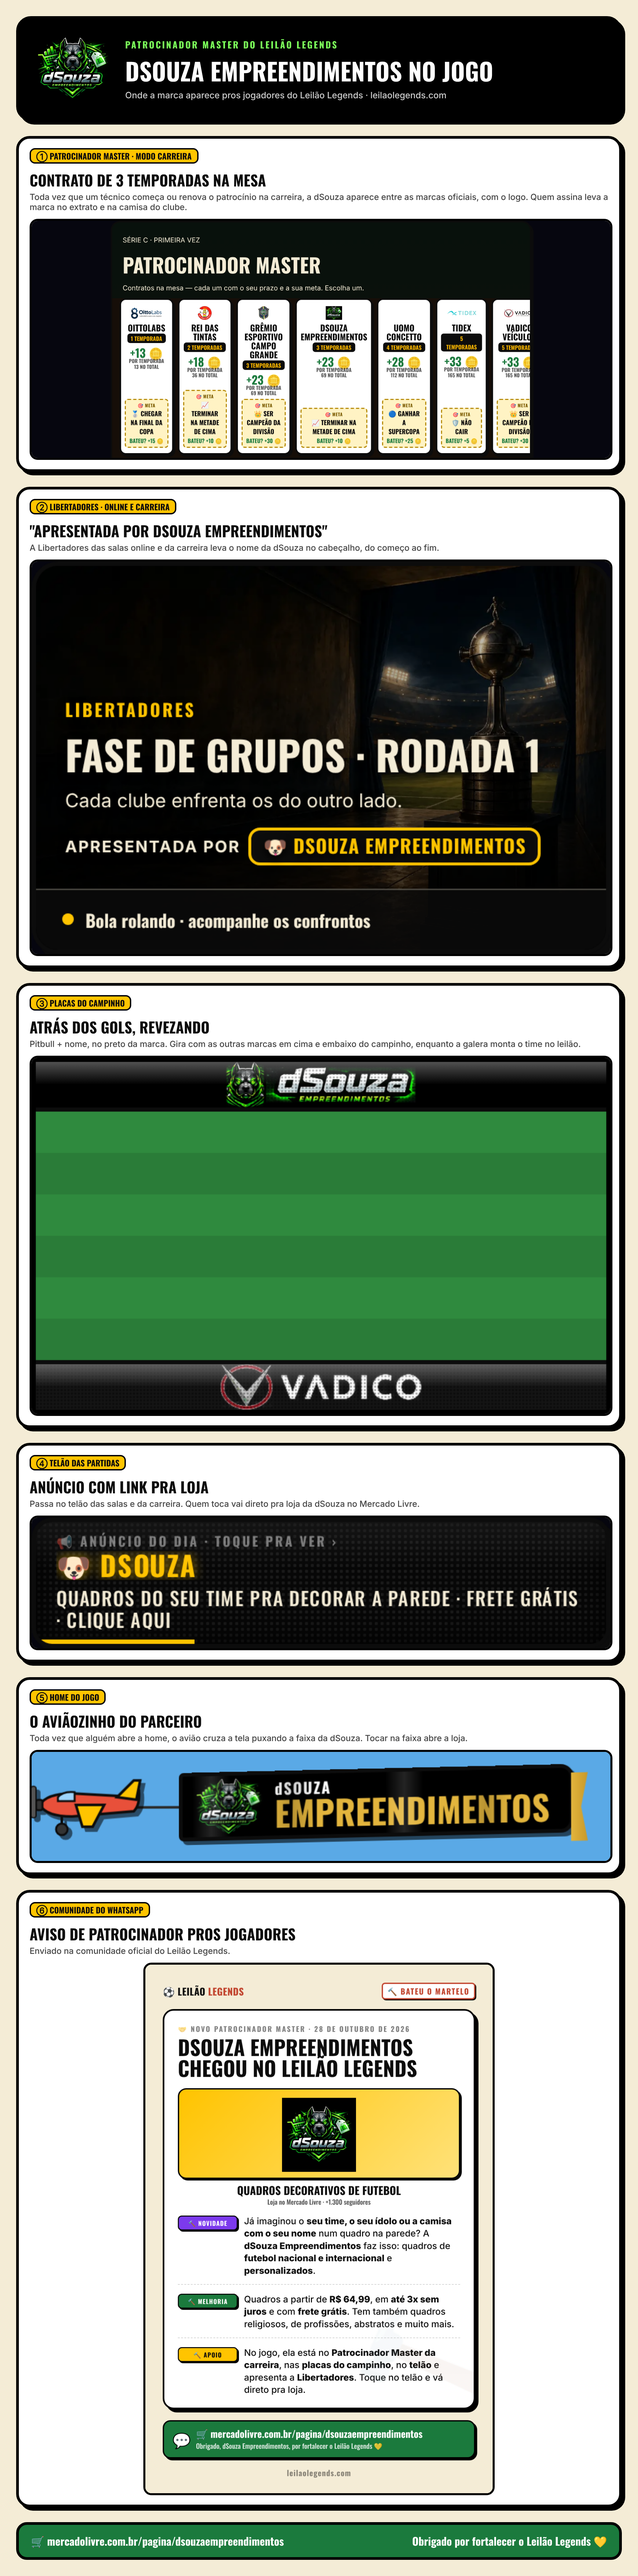
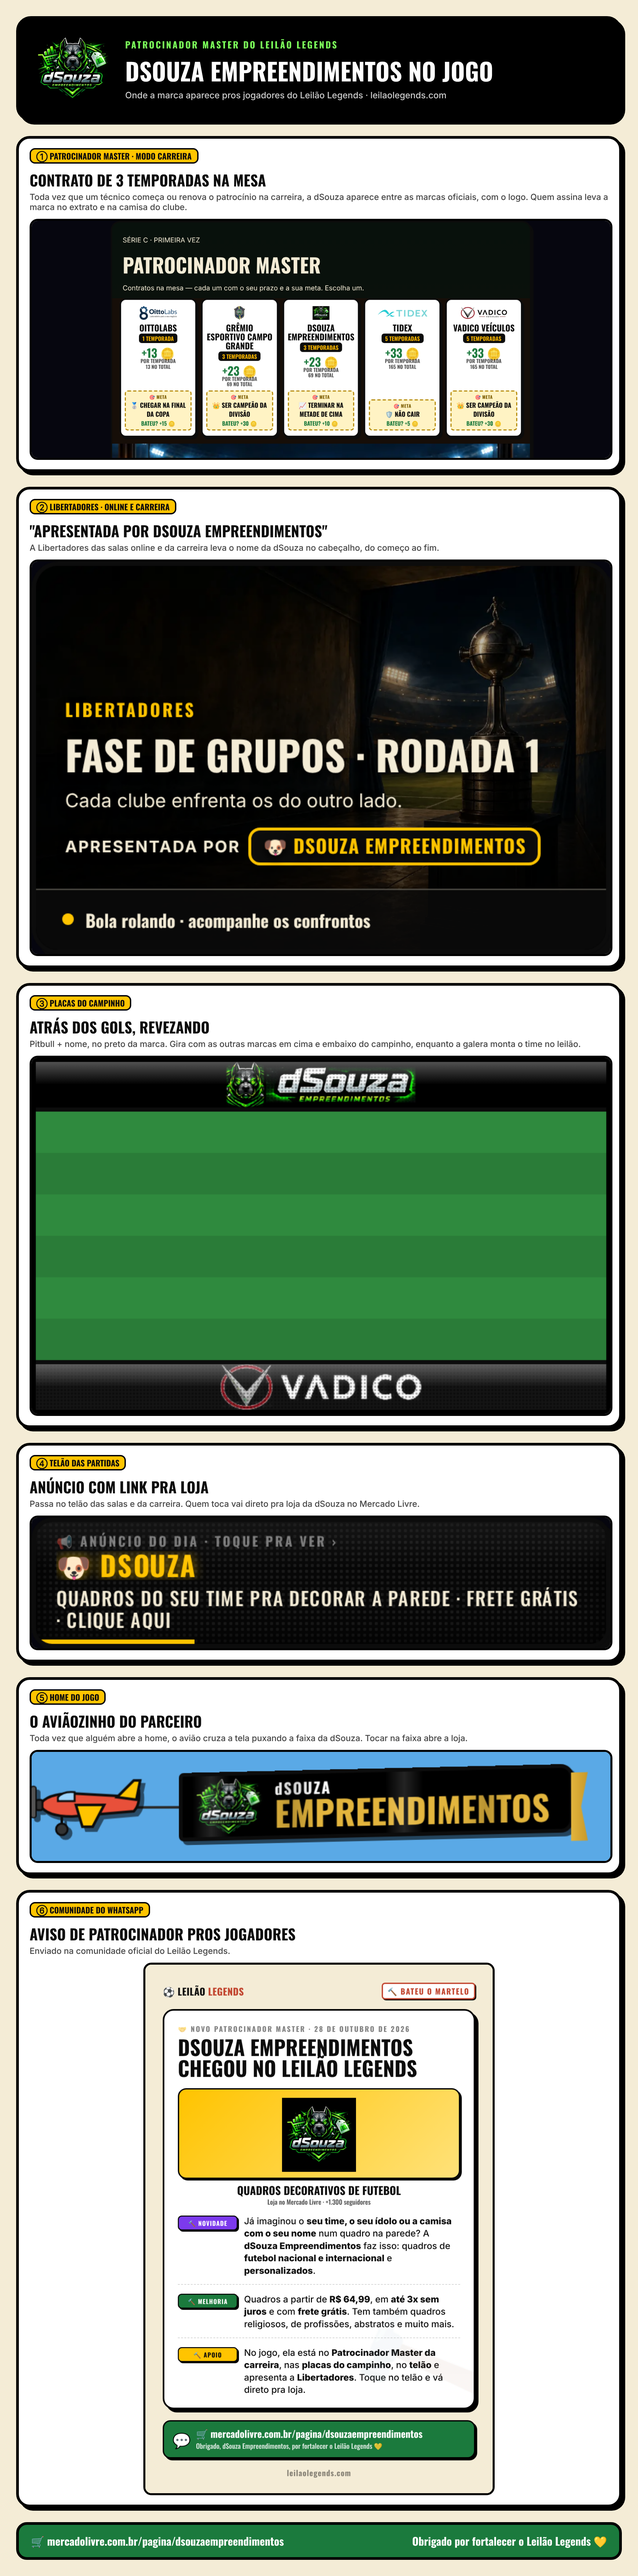
Master: saem Uomo Concetto e Rei das Tintas (contratos correndo vão até o fim); Uomo vira fornecedor de material no lugar da GuchiGuchi; página da dSouza refeita sem as duas
Claude-Session: https://claude.ai/code/session_012GPrTDbpvrApA6DArkzCpE

Changed region(s): [[0.1867, 0.0937, 0.8402, 0.1874]]

diff --git a/src/escalacao/estadiodata.ts b/src/escalacao/estadiodata.ts
@@ -194,7 +194,9 @@ export const MASTER_PRAZOS: { brandId: string; anos: number }[] = [
   // 🧪 21/10 (Diego: "tira Max Joias e bote ele"): a OittoLabs pega o lugar da Max Joias (1 temporada). Contrato da Max Joias
   //    que já está correndo em save antigo continua até acabar (a marca segue em SPONSOR_BRANDS); só não é oferecida mais.
   { brandId: 'oittolabs', anos: 1 },
-  { brandId: 'reidastintas', anos: 2 },
+  // 🚫 28/10 (Diego: "remova a Uomo dos patrocinadores master… e remova Rei das Tintas também"): as duas saíram da mesa. Contrato
+  //    delas que já está correndo em save antigo vai até o fim (as marcas seguem em SPONSOR_BRANDS); só não são oferecidas mais.
+  //    A Uomo virou fornecedor de material (`loja.ts`, no lugar da GuchiGuchi).
   // ⚽ 23/10: o Grêmio Esportivo Campo Grande pega o lugar da ERO (3 temporadas). Contrato da ERO que já está correndo em save
   //    antigo continua até acabar (a marca segue em SPONSOR_BRANDS); só não é oferecida mais.
   { brandId: 'gecg', anos: 3 },
@@ -203,7 +205,6 @@ export const MASTER_PRAZOS: { brandId: string; anos: number }[] = [
   //    divisão × prazo, então quem tem o prazo maior paga mais. Com 4, a Uomo
   //    entra ENTRE a ERO e a Vadico e a **Vadico continua sendo a mais cara**,
   //    que foi a condição que ele pôs. A escada virou 1 · 2 · 3 · 4 · 5.
-  { brandId: 'uomo', anos: 4 },
   // 🤖 19/10 (Diego: "igual a Vadico… porém a cada temporada uma pode ser melhor que a outra com base nos bônus"): mesmo prazo e
   //    mesmo valor da Vadico; quem desempata é a META sorteada de cada uma (`masterMetaOferta` sorteia por marca).
   { brandId: 'tidex', anos: 5 },

diff --git a/src/escalacao/loja.ts b/src/escalacao/loja.ts
@@ -88,7 +88,9 @@ export const FORNECEDORES: Fornecedor[] = [
   { id: 'eisics', nome: 'Eisics', simb: '≋', anos: 3, loja: 0.30, desde: 'B', cor: '#1C4B8A' },
   { id: 'newbala', nome: 'New Bala', simb: 'N', anos: 5, loja: 0.45, desde: 'B', cor: '#9E1B1B' },
   // 1ª — Elite e Luxo
-  { id: 'guchiguchi', nome: 'GuchiGuchi', simb: '⊛', anos: 1, loja: 0.10, desde: 'A', cor: '#1B5E3A' },
+  // 🅾 28/10 (Diego: "coloque a Uomo no lugar de alguma marca de roupa de fornecedor de material"): a Uomo Concetto (alfaiataria,
+  //    marca REAL parceira) pega o lugar da GuchiGuchi, no andar da Elite e Luxo. Mesmo id e mesmo prazo: contrato correndo não muda.
+  { id: 'guchiguchi', nome: 'Uomo Concetto', simb: '🅾', anos: 1, loja: 0.10, desde: 'A', cor: '#0C0C0C' },
   { id: 'adibas', nome: 'Abibas', simb: '◤', anos: 2, loja: 0.20, desde: 'A', cor: '#0E3E86' },
   { id: 'pumba', nome: 'Pumba', simb: '🐆', anos: 3, loja: 0.30, desde: 'A', cor: '#B5651D' },
   { id: 'naique', nome: 'Naique', simb: '✓', anos: 5, loja: 0.45, desde: 'A', cor: '#1B7A3D' },

diff --git a/docs/pendencias.md b/docs/pendencias.md
@@ -1,3 +1,9 @@
+## 🅾🎨 Master sem Uomo e sem Rei das Tintas (28/10) — no branch, esperando "publica"
+Diego: *"remova a Uomo dos patrocinadores master e coloque a Uomo no lugar de alguma marca de fornecedor de material… remova Rei das
+Tintas também"*. Mesa do Master agora: OittoLabs 1 · Grêmio Campo Grande 3 · dSouza 3 · Tidex 5 · Vadico 5. Contrato delas que já corre
+em save antigo vai até o fim. A Uomo Concetto virou fornecedor de material no lugar da GuchiGuchi (Série A, 1 temporada, mesmo id
+`guchiguchi` pra contrato correndo não quebrar). Travas `npm run master`/`master-historia` atualizadas (5 contratos).
+
 ## 🐶 Patrocinador Master dSouza Empreendimentos (28/10) — ✅ NO AR (linha do telão id 8 em `esc_anuncios_fixos`)
 Loja de quadros decorativos (futebol nacional/internacional, personalizados) no Mercado Livre:
 https://www.mercadolivre.com.br/pagina/dsouzaempreendimentos/futebol . Arte em `scripts/parceiros/dsouza-*.jpg`.
